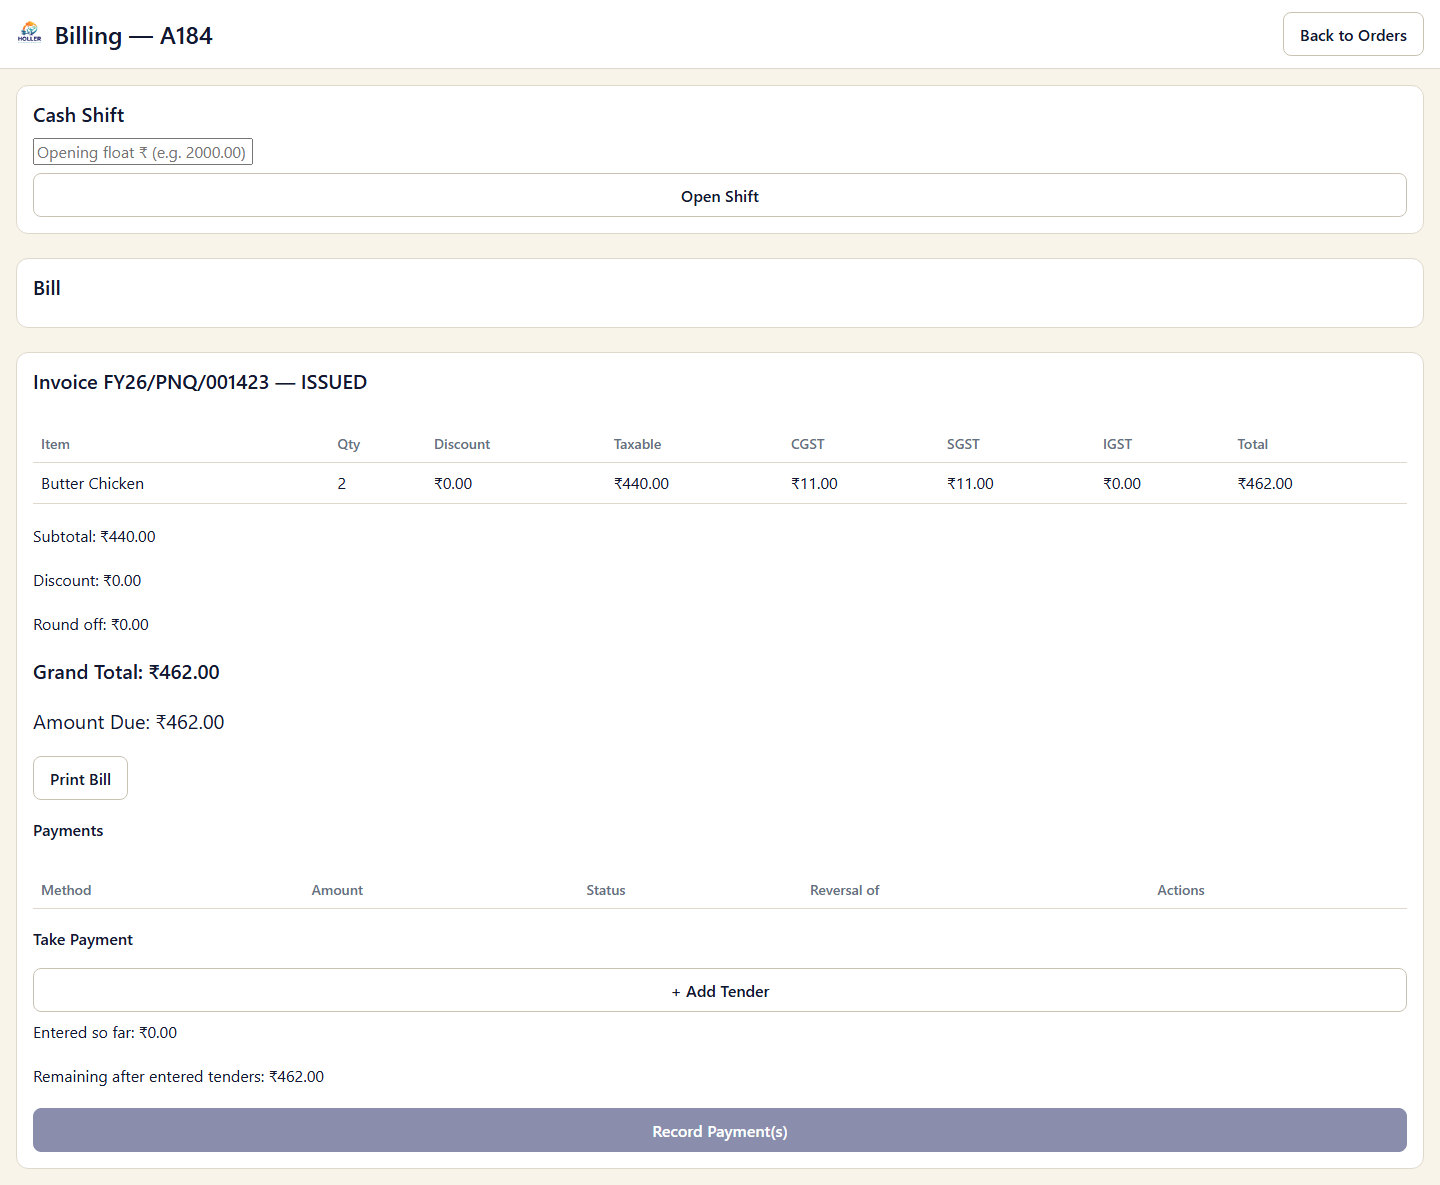
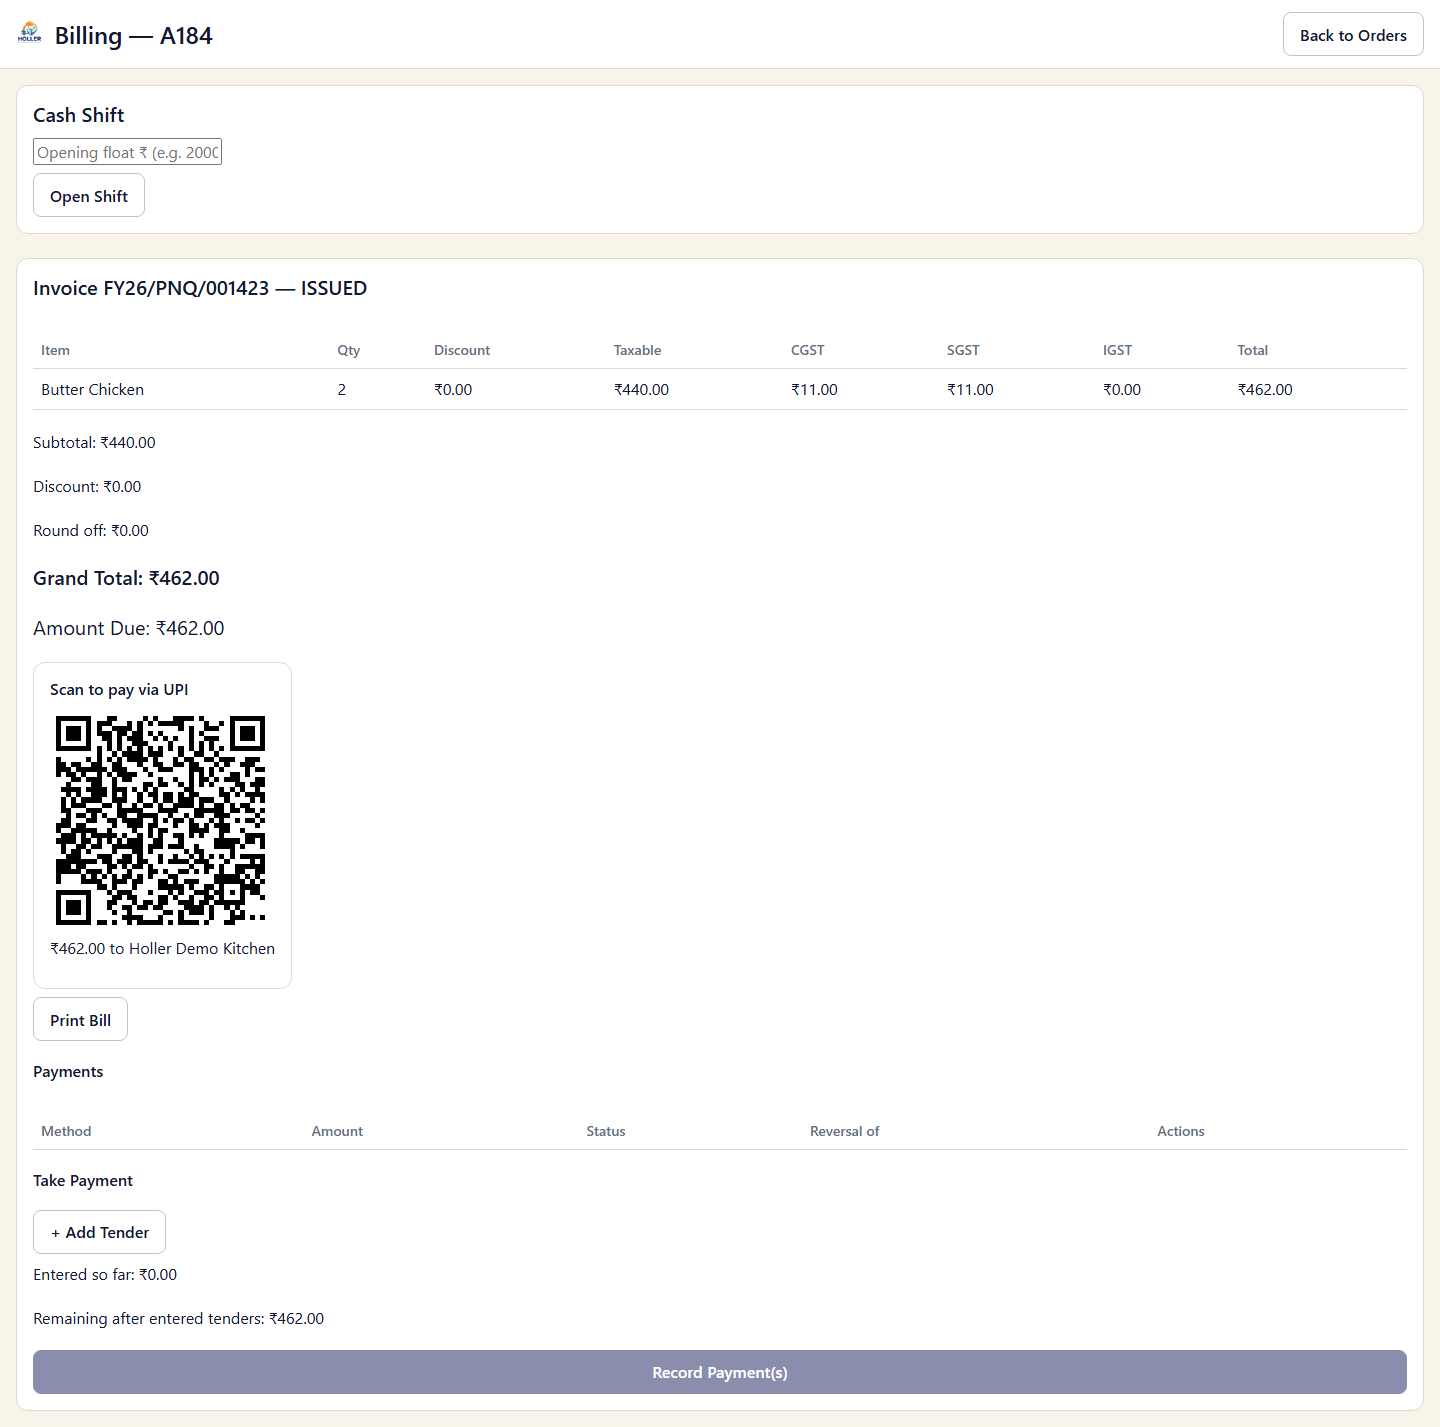
docs(demo-screens): re-take pos-billing.png with the UPI QR present
T19's capture ran without VITE_HOLLER_DEMO_UPI_VPA set, so the QR
UpiPaymentQr deliberately renders nothing without a configured payee
never appeared in the screenshot. Re-taken with demo@upi / "Holler
Demo Kitchen" set, and with the BillingScreen fixes from this track
(empty Bill card, stretched buttons) both visible in the same shot.

Claude-Session: https://claude.ai/code/session_01MaG9XPvUs2rtAbtEF8yzNp

diff --git a/docs/demo-screens/index.md b/docs/demo-screens/index.md
@@ -1,5 +1,52 @@
 # Demo screens — presentability check (T14 follow-up, T19 controls/header pass)
 
+## T20 update (2026-09-11) — billing screen fixes, re-taken `pos-billing.png`
+
+T19's `pos-billing.png` was captured without `VITE_HOLLER_DEMO_UPI_VPA` set,
+so the customer-facing UPI QR — the single most important thing on that
+screen for the demo — was absent. `UpiPaymentQr` (`components/UpiPaymentQr.tsx`,
+`domain/upi.ts`) renders **nothing at all** when no demo payee VPA is
+configured — deliberately: a QR aimed at an empty payee would open a real
+payment app on a customer's phone pointed at nobody. **The QR only ever
+appears when `VITE_HOLLER_DEMO_UPI_VPA` (and optionally
+`VITE_HOLLER_DEMO_UPI_PAYEE_NAME`) is set at build/dev-server time** — set
+them in `apps/pos/.env.local` (untracked) or in the environment before
+`pnpm dev`/`pnpm build`. The re-take below used `demo@upi` /
+`Holler Demo Kitchen`, an obviously-fake payee.
+
+Two further `BillingScreen.tsx`/`index.css` fixes are in this same
+screenshot:
+
+- The "Bill" card used to render as a bare `<h2>Bill</h2>` with an empty
+  body once an invoice existed (everything it would show is already
+  rendered per-invoice below in `.invoice-detail-panel`) — the card is now
+  dropped once `hasInvoices` is true, and shows a real one-line empty state
+  ("No unbilled order — send an order to the kitchen first.") when there is
+  nothing yet to bill, instead of a bordered box with nothing in it.
+- "Open Shift", "+ Add Tender" and "Record Payment(s)" were stretching to
+  the full card width — their flex-column parent containers defaulted
+  `align-items` to `stretch`, pulling every `inline-flex` `.btn` along with
+  them. Fixed with `align-items: flex-start` on those containers;
+  "Record Payment(s)" opts into full width explicitly via `.btn--block`,
+  since it is the screen's one genuinely terminal action.
+
+`pos-billing.png` was re-captured with a throwaway Playwright script
+(scratch directory, not part of this repository) driving the real
+`pnpm dev` server with `VITE_HOLLER_DEMO_UPI_VPA=demo@upi` and
+`VITE_HOLLER_DEMO_UPI_PAYEE_NAME="Holler Demo Kitchen"` set,
+`window.__TAURI_INTERNALS__.invoke` mocked with contract-shaped fixtures
+(login → orders list → Bill → invoice detail), navigated entirely by
+clicking in-app (never a `page.goto` reload after login), and asserted on
+the invoice number and "Scan to pay via UPI" text being on screen before
+capture. No other file in this set changed in this pass.
+
+`pos-billing-upi-qr.png` (the standalone QR crop from the T14 pass) is
+unchanged and kept for its own MD5 below.
+
+**`pos-billing.png` MD5, this pass:** `92f4fd83078de61f1294d0205e92a560`
+(supersedes the T19-pass hash `f69af7491d769204905582bb38c62088` recorded
+below). Confirmed distinct from every other file in this directory.
+
 ## T19 update (2026-09-11)
 
 T14 adopted the colour tokens (`.money`, status colours, the logo on
